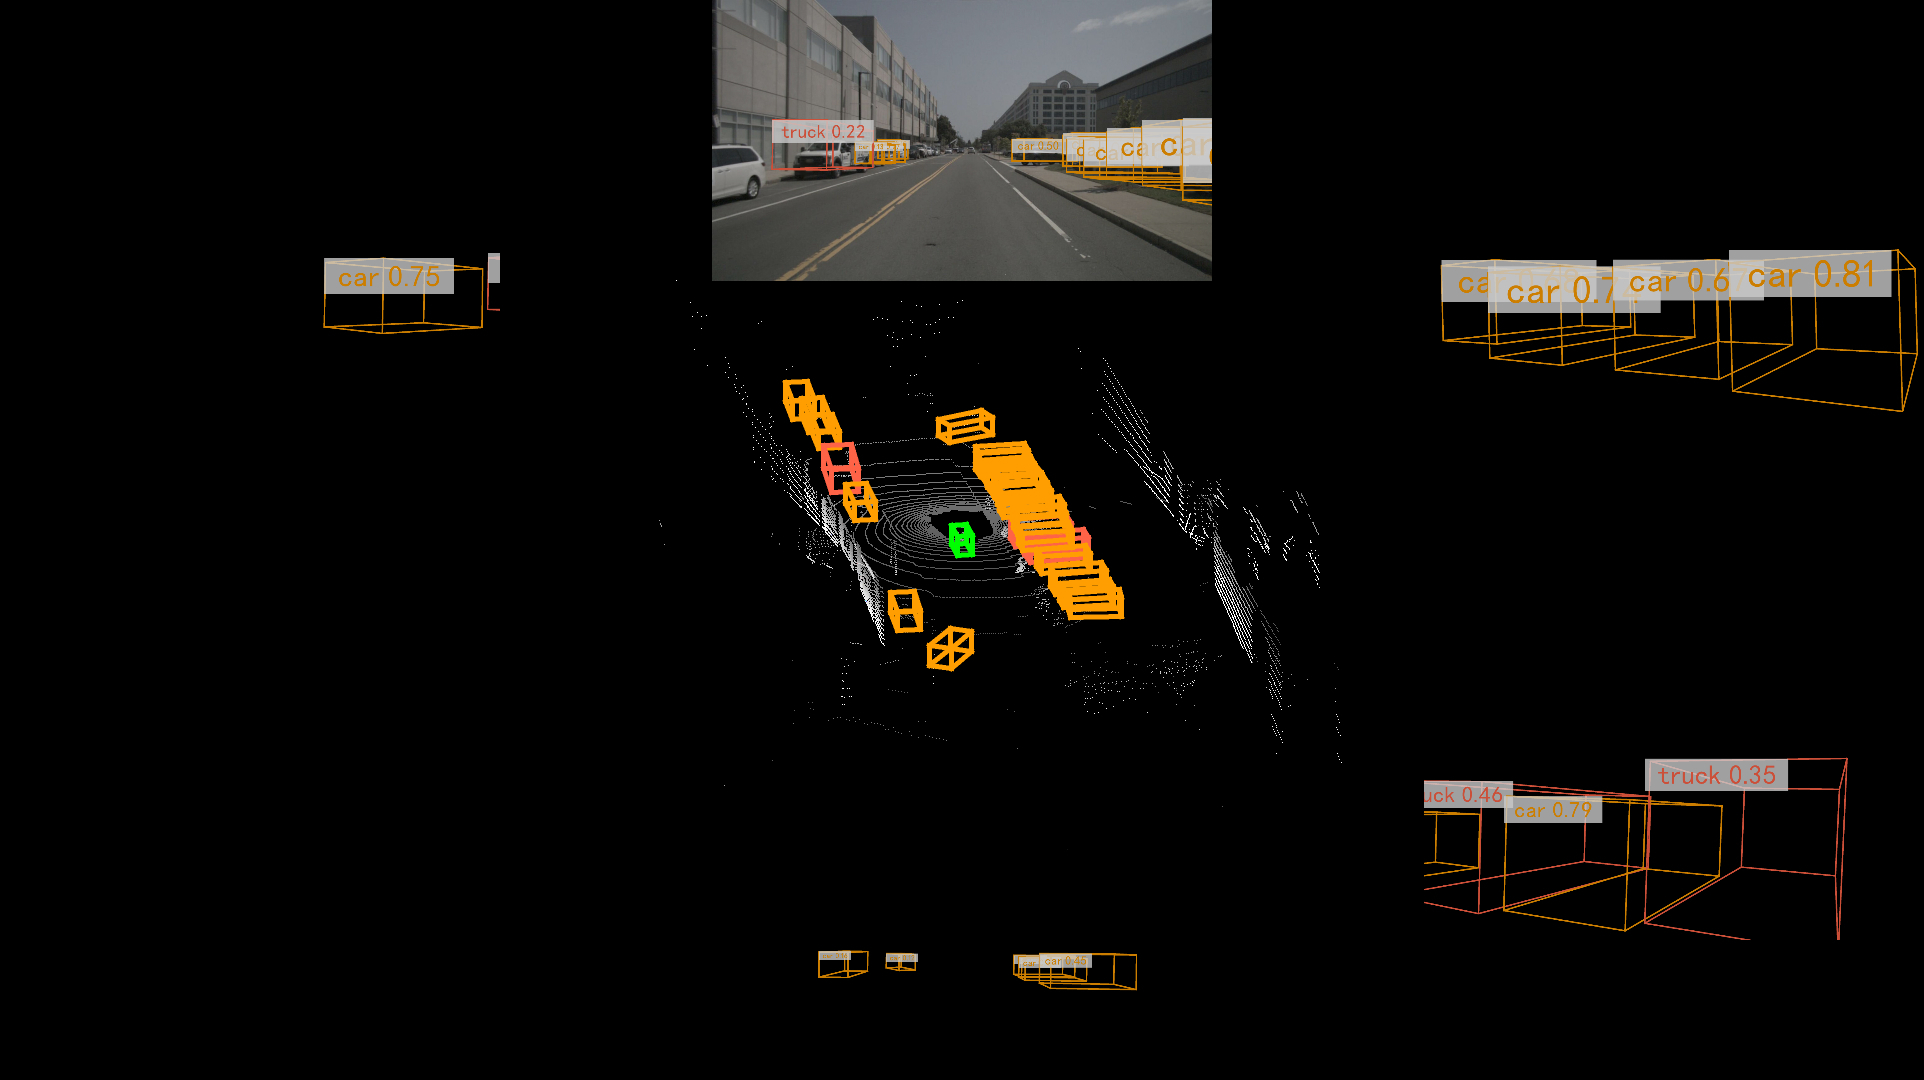
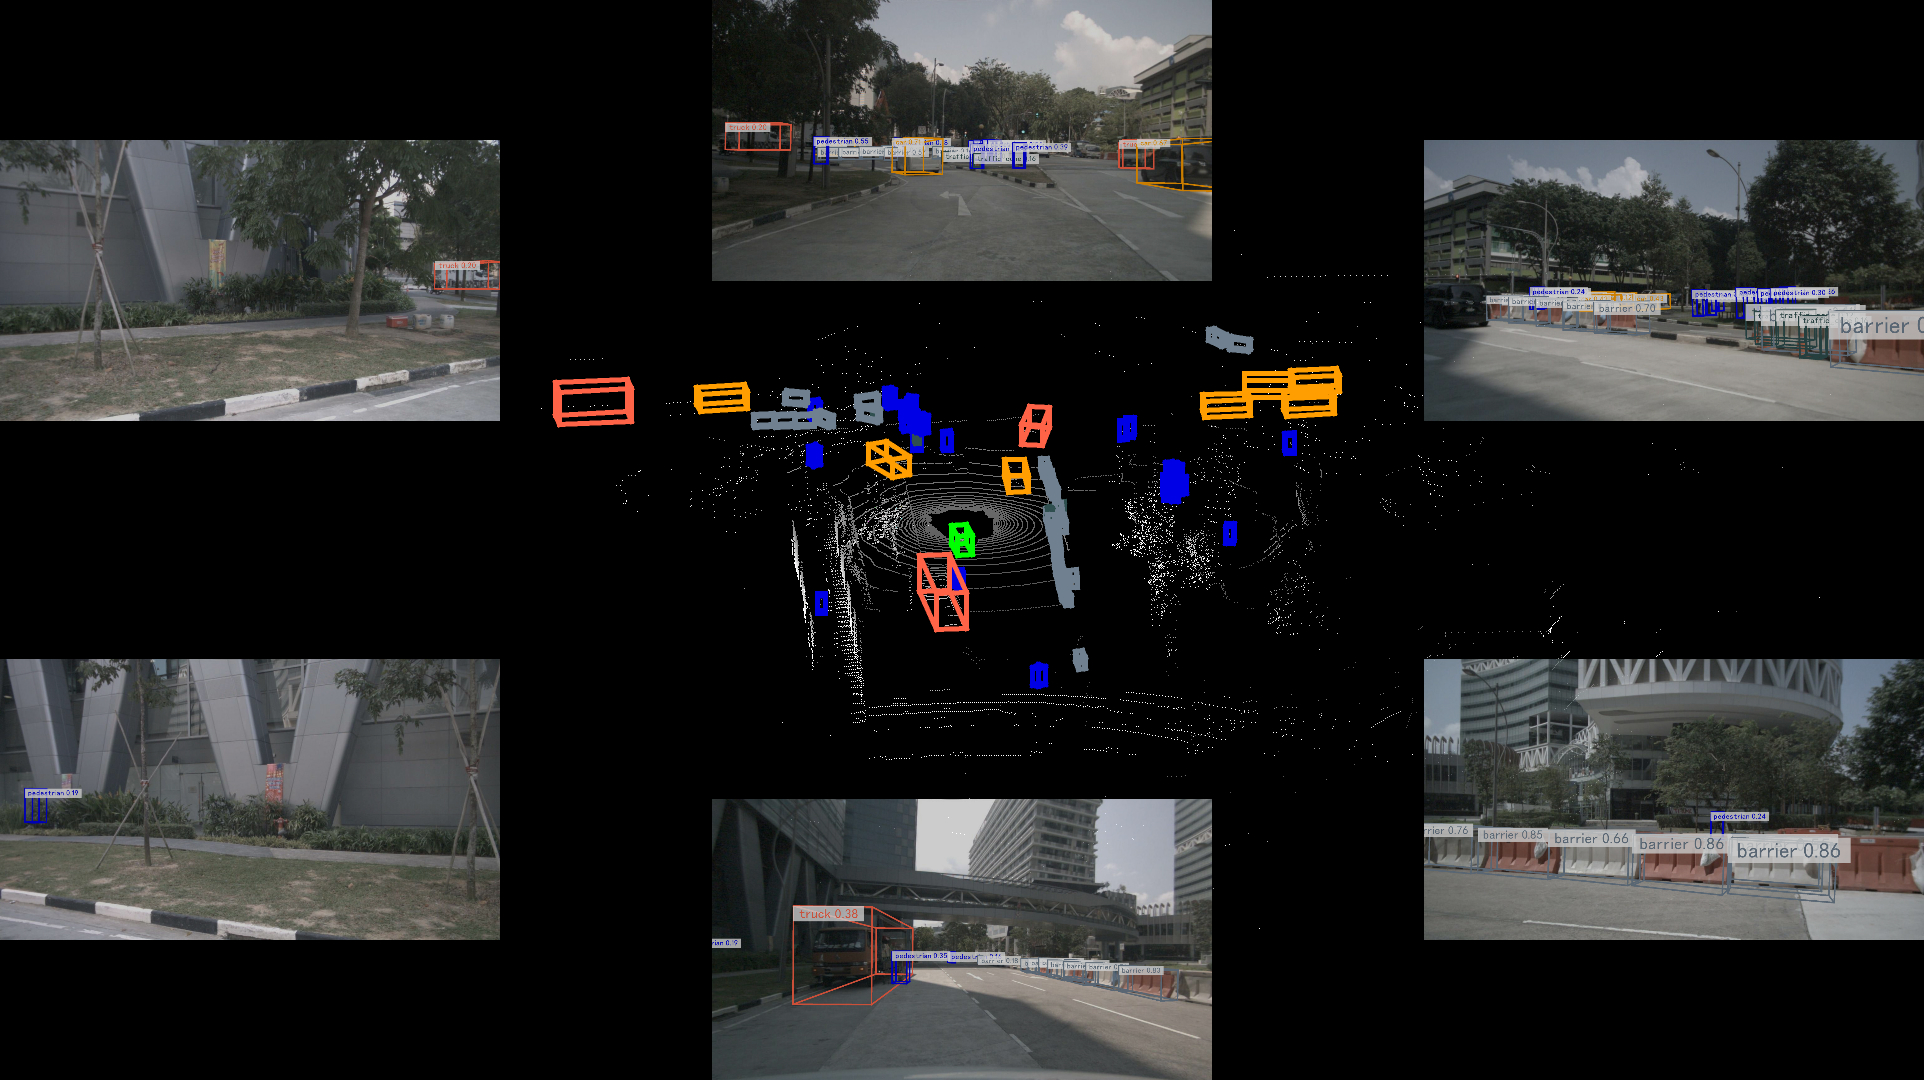
fix bug in bevfusion free images

diff --git a/BEVFusion-ROS-TensorRT/src_ros/bevfusion_ros.cpp b/BEVFusion-ROS-TensorRT/src_ros/bevfusion_ros.cpp
@@ -4,10 +4,10 @@
 #include "bevfusion_ros.hpp"
 
 RosNode::RosNode(const std::string model_name, const std::string  precision)
-  : model_name_(model_name), precition_(precision)
+  : model_name_(model_name), precision_(precision)
 { 
   
-  bevfusion_node_.reset(new BEVFusionNode(model_name_, precition_));
+  bevfusion_node_.reset(new BEVFusionNode(model_name_, precision_));
   getTopicName();
   pub_img_ = n_.advertise<sensor_msgs::Image>("/bevfusion/image_raw", 10);
   sub_cloud_.subscribe(n_, topic_cloud_, 10);
@@ -81,6 +81,7 @@ void RosNode::callback(const sensor_msgs::PointCloud2ConstPtr& msg_cloud,
     lidar_arr[index + 4] = 0;
   }
   bevfusion_node_->Inference(images, lidar_arr, cloud_ptr->points.size());
+  free_images(images);
 
   cv::Mat img = cv::imread((pkg_path + "/configs/cuda-bevfusion.jpg").c_str());
   cv::resize(img, img, cv::Size(img.size().width /2, img.size().height /2));

diff --git a/BEVFusion-ROS-TensorRT/include_ros/bevfusion_ros.hpp b/BEVFusion-ROS-TensorRT/include_ros/bevfusion_ros.hpp
@@ -25,7 +25,7 @@
 
 class RosNode 
 { 
-  std::string model_name_, precition_;
+  std::string model_name_, precision_;
   ros::NodeHandle n_;
   ros::Publisher pub_img_;
 
